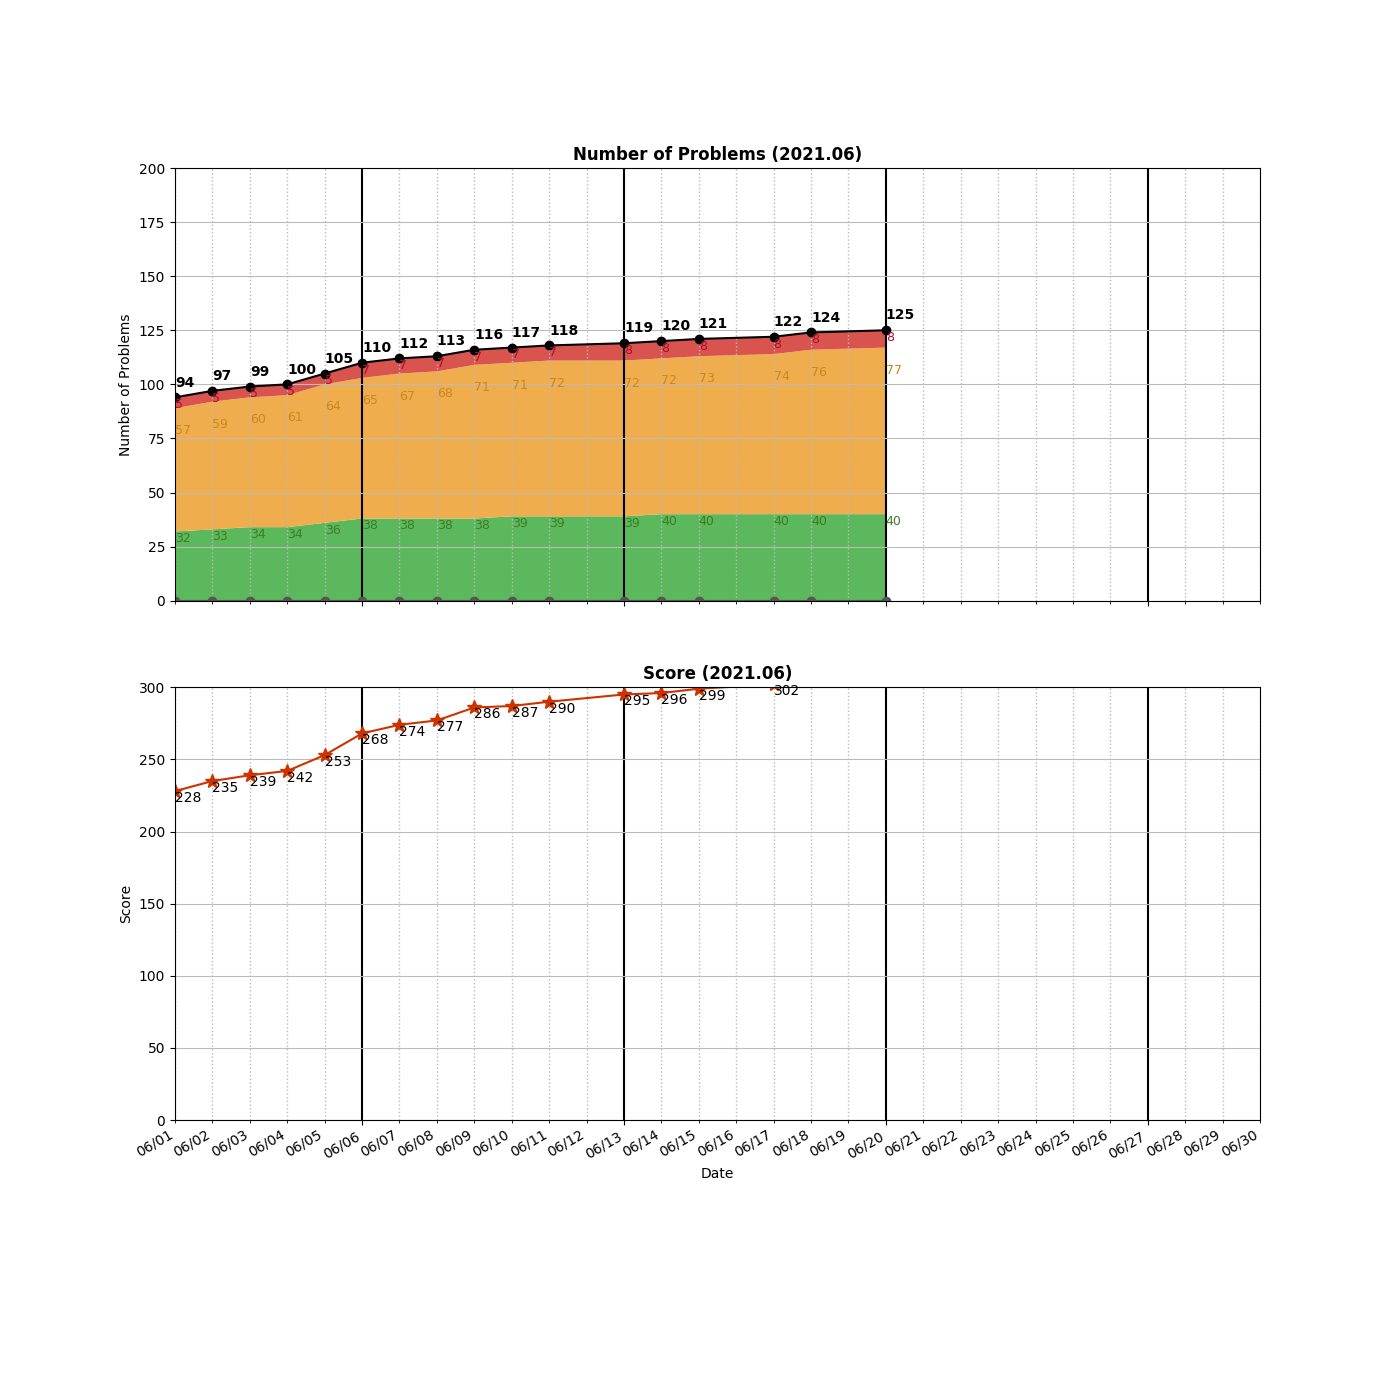
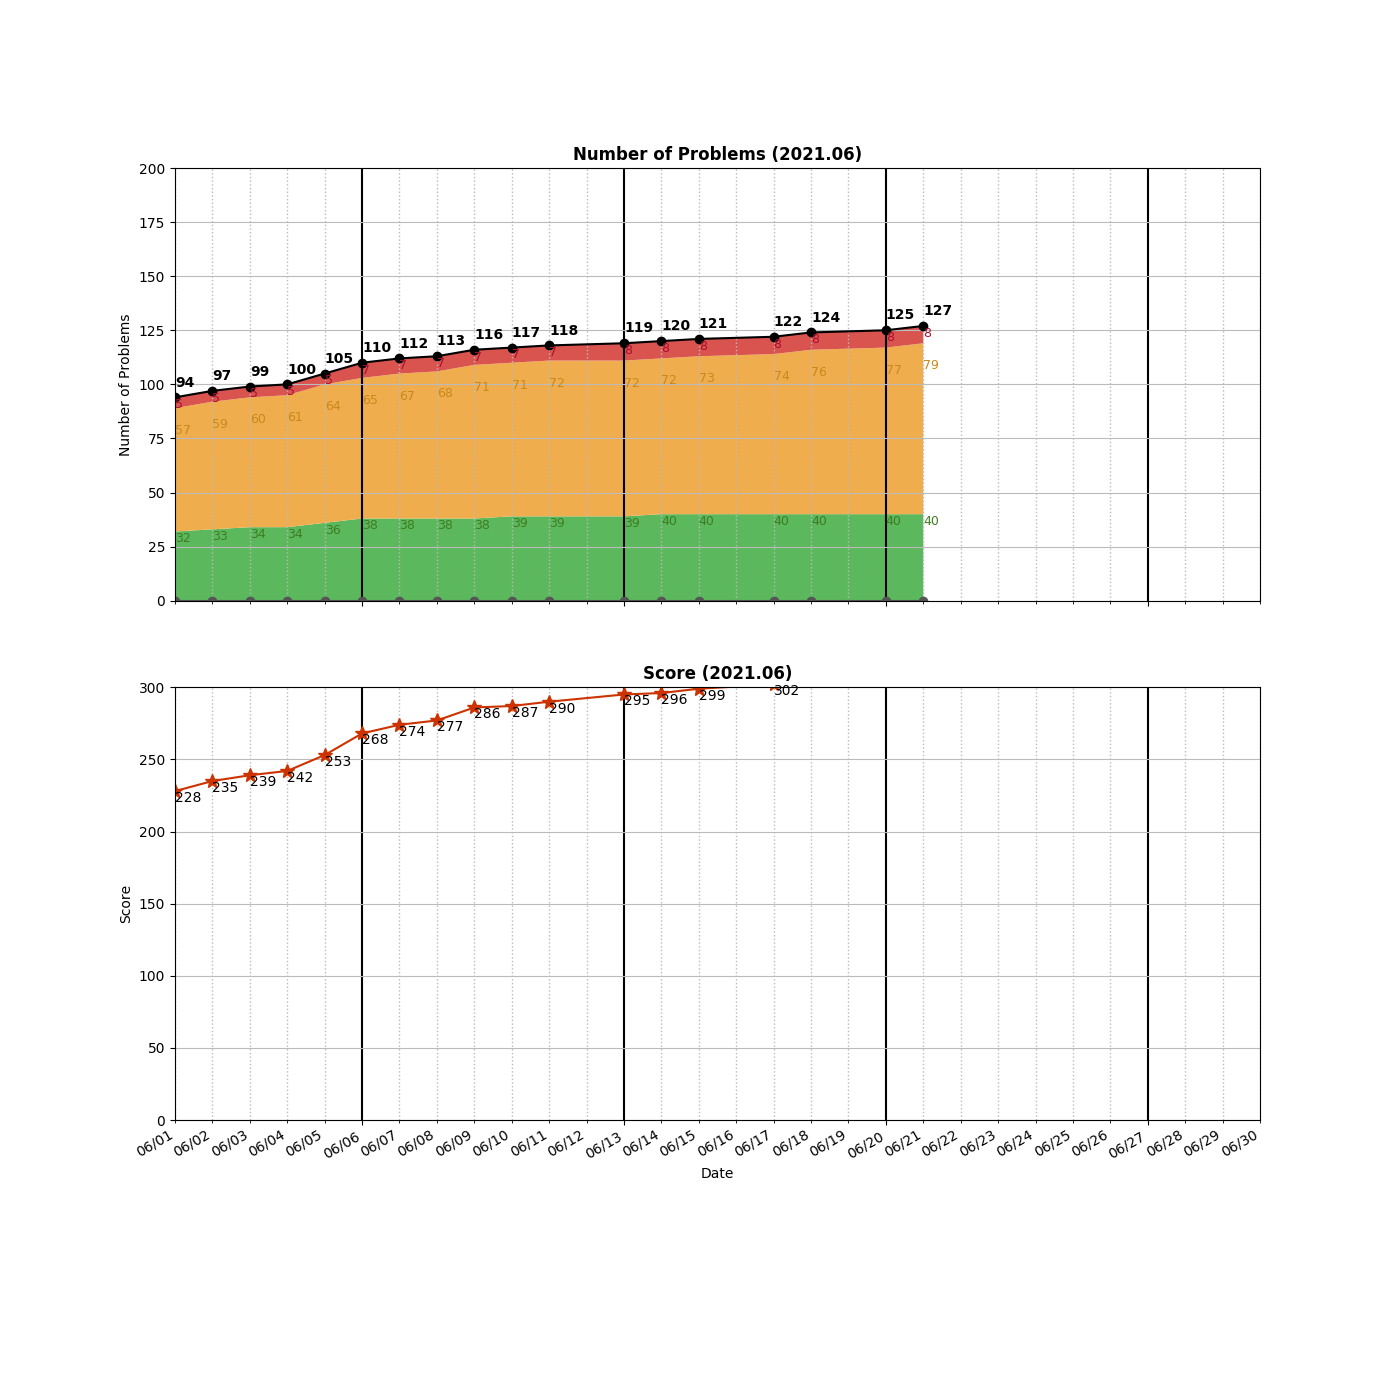
Added __0547__Number of Provinces.py (union find)

Changed region(s): [[0.6143, 0.215, 0.6757, 0.43]]

diff --git a/algo/Graph/__0547__Number of Provinces.py b/algo/Graph/__0547__Number of Provinces.py
@@ -1,0 +1,32 @@
+class Solution:
+    
+    # Union Find [O(n3):29%]
+    def findCircleNum(self, isConnected: List[List[int]]) -> int:
+        if not isConnected:
+            return 0
+        
+        n = len(isConnected)
+        parents = [-1] * n
+        self.count = n
+        
+        for i in range(len(isConnected)):
+            for j in range(len(isConnected[0])):
+                if i == j:
+                    continue
+                if isConnected[i][j] == 0:
+                    continue
+                # connected case
+                self.union(parents, i, j)
+        return self.count
+    
+    def union(self, parents, A, B):
+        def find(A):
+            if parents[A] == -1:
+                return A
+            return find(parents[A])
+        
+        headA = find(A)
+        headB = find(B)
+        if headA != headB: 
+            parents[headB] = headA #union
+            self.count -= 1

diff --git a/README.md b/README.md
@@ -72,7 +72,9 @@ algo
 ├── Graph
 │   ├── __0323__Number\ of\ Connected\ Components\ in\ an\ Undirected\ Graph.py
 │   ├── __0399__Evaluate\ Division.py
+│   ├── __0547__Number\ of\ Provinces.py
 │   ├── __0743__Network\ Delay\ Time.py
+│   ├── __0787__Cheapest\ Flights\ Within\ K\ Stops.py
 │   └── __0797__All\ Paths\ From\ Source\ to\ Target.py
 ├── HashMap
 │   ├── __0001__Two\ Sum.py
@@ -152,7 +154,7 @@ algo
         ├── LinkedList.cpython-37.pyc
         └── UnrolledLinkedList.cpython-37.pyc
 
-18 directories, 133 files
+18 directories, 135 files
 
 =====================================
 ============= Local Repo ============
@@ -257,6 +259,7 @@ __0399__Evaluate Division.py
 __0401__Binary Watch.py
 __0437__Path Sum III.py
 __0532__K-diff Pairs in an Array.py
+__0547__Number of Provinces.py
 __0559__Maximum Depth of N-ary Tree.py
 __0560__Subarray Sum Equals K.py
 __0576__Out of Boundary Paths.py
@@ -271,6 +274,7 @@ __0704__Binary Search.py
 __0706__Design HashMap.py
 __0743__Network Delay Time.py
 __0784__Letter Case Permutation.py
+__0787__Cheapest Flights Within K Stops.py
 __0797__All Paths From Source to Target.py
 __0863__All Nodes Distance K in Binary Tree.py
 __0905__Sort Array By Parity.py
@@ -282,7 +286,7 @@ __1099__Two Sum Less Than K.py
 __1429__First Unique Number.py
 __1593__Split a String Into the Max Number of Unique Substrings.py
 =====================================
-Num of Python Practice:  124
+Num of Python Practice:  126
 
 
 =====================================
@@ -389,6 +393,7 @@ Num of Python Practice:  124
  0401 Binary Watch
  0437 Path Sum III
  0532 K-diff Pairs in an Array
+ 0547 Number of Provinces
  0559 Maximum Depth of N-ary Tree
  0560 Subarray Sum Equals K
  0576 Out of Boundary Paths
@@ -403,6 +408,7 @@ Num of Python Practice:  124
  0706 Design HashMap
  0743 Network Delay Time
  0784 Letter Case Permutation
+ 0787 Cheapest Flights Within K Stops
  0797 All Paths From Source to Target
  0863 All Nodes Distance K in Binary Tree
  0905 Sort Array By Parity
@@ -415,10 +421,10 @@ Num of Python Practice:  124
  1593 Split a String Into the Max Number of Unique Substrings
 =====================================
 Solved / Total (Easy)  :   40 /  500
-Solved / Total (Medium):   77 / 1006
+Solved / Total (Medium):   79 / 1006
 Solved / Total (Hard)  :    8 /  399
-Solved / Total (All)   :  125 / 1905
-Total Score            :  311
+Solved / Total (All)   :  127 / 1905
+Total Score            :  317
 =====================================
 
 ```
